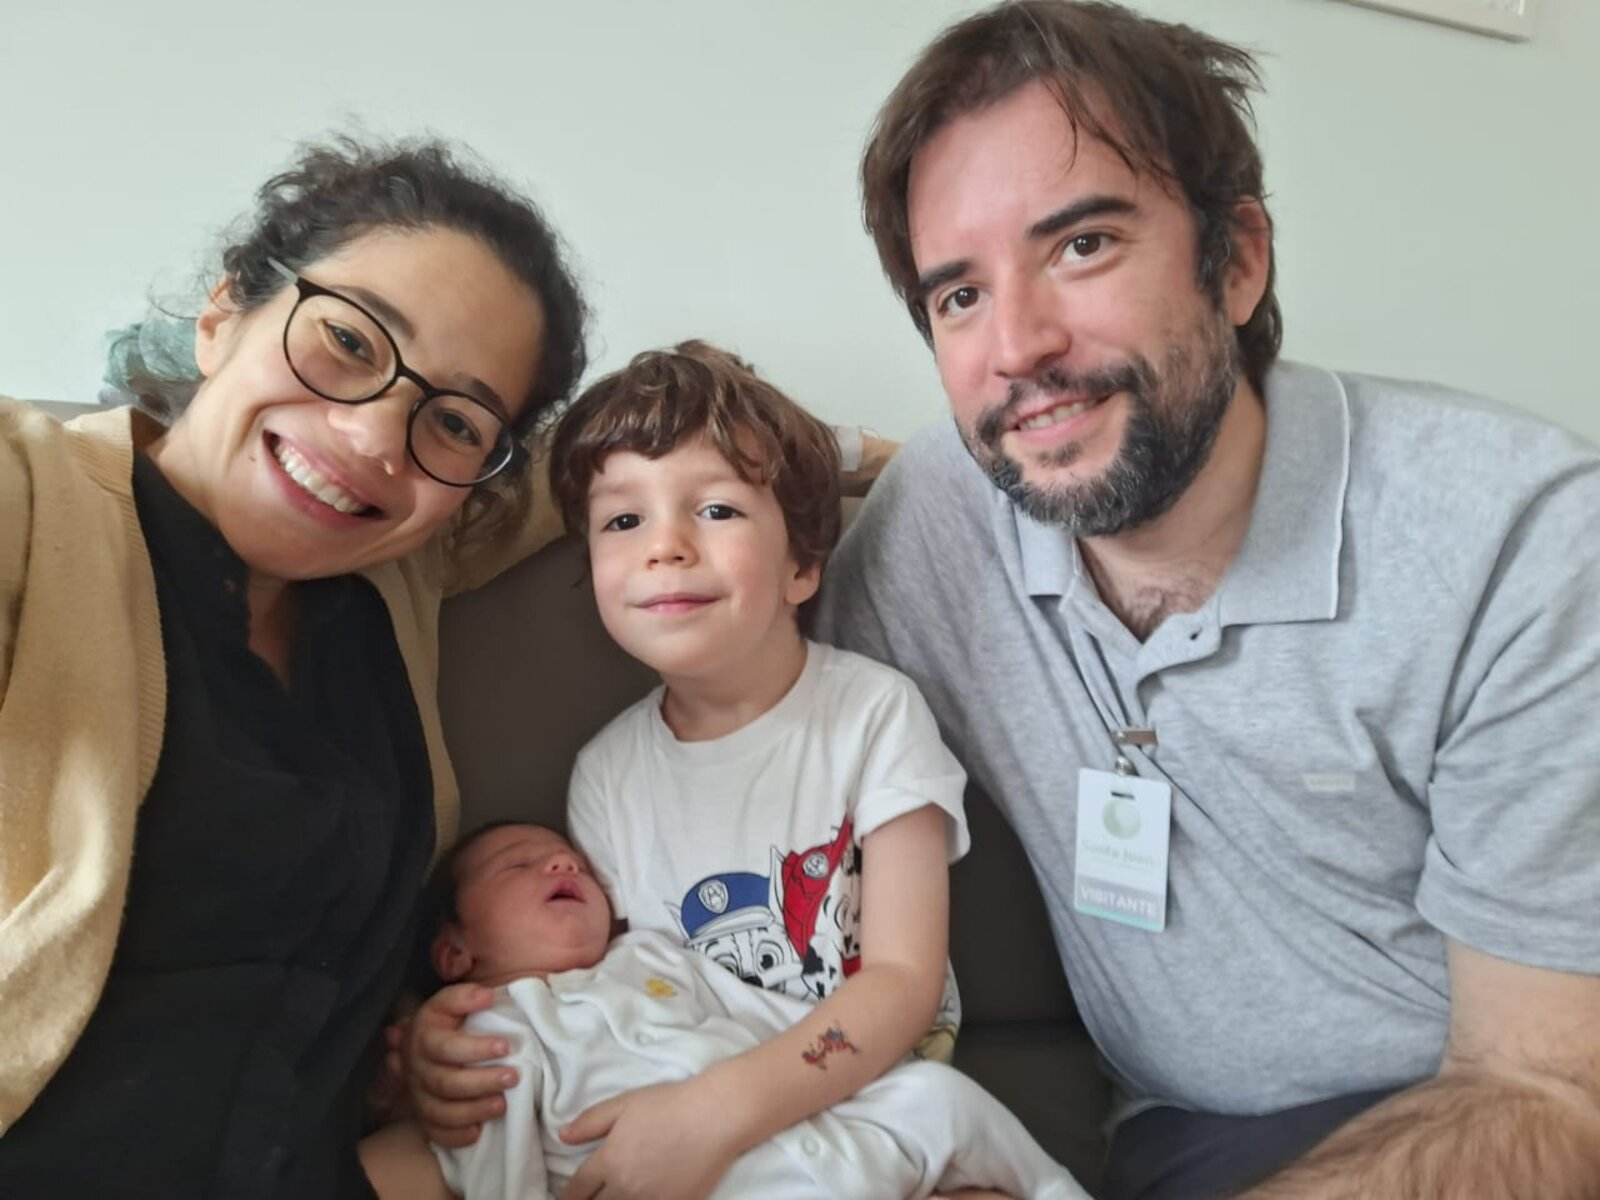
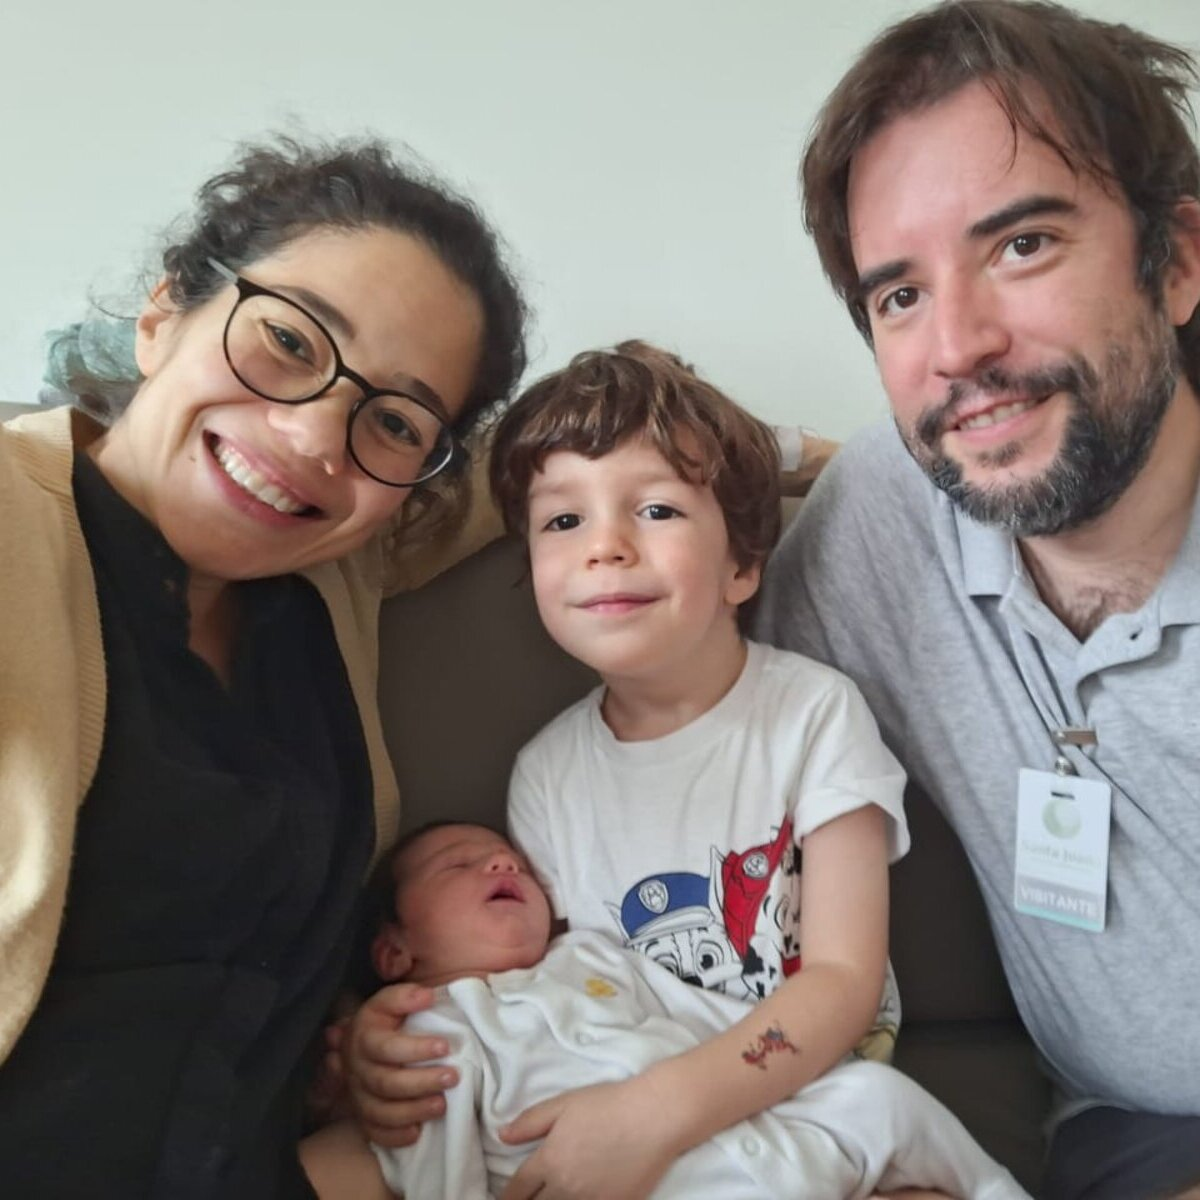
Reframe photos, move name under portrait photo, warm up background
- Re-crop the hero photo tighter on Beatriz's face, out of the mother's
  arm/chest that was showing on the left
- Move the name below the portrait photo instead of above it, and lift
  the photo up to sit right under the header
- Reframe the four-person family photo so the mother isn't cut off
- Shift the page background from a blue periwinkle to a softer, rosier
  lilac

diff --git a/src/screens/PortraitScreen.tsx b/src/screens/PortraitScreen.tsx
@@ -38,19 +38,6 @@ export default function PortraitScreen({ chart }: { chart: Chart }) {
       <PageHeader />
 
       {/* The opening screen of the app, so it introduces her first. */}
-      <Reveal distance={14}>
-        <View style={styles.nameBlock}>
-          <Body size={typography.pageTitle} style={styles.nameLine}>
-            {firstName}
-          </Body>
-          {restName.length > 0 && (
-            <Body size={typography.pageTitle} style={styles.nameLine}>
-              {restName.join(' ')}
-            </Body>
-          )}
-        </View>
-      </Reveal>
-
       <View style={styles.photoWrap}>
         <Pop duration={760}>
           <Breathe periodMs={4600} scale={1.025}>
@@ -79,6 +66,19 @@ export default function PortraitScreen({ chart }: { chart: Chart }) {
           </Parallax>
         </View>
       </View>
+
+      <Reveal distance={14}>
+        <View style={styles.nameBlock}>
+          <Body size={typography.pageTitle} style={styles.nameLine}>
+            {firstName}
+          </Body>
+          {restName.length > 0 && (
+            <Body size={typography.pageTitle} style={styles.nameLine}>
+              {restName.join(' ')}
+            </Body>
+          )}
+        </View>
+      </Reveal>
 
       <Body muted size={14} style={styles.caption}>
         {caption}
@@ -183,7 +183,7 @@ const styles = StyleSheet.create({
   },
   nameBlock: {
     alignItems: 'center',
-    marginTop: spacing(2),
+    marginTop: spacing(2.5),
   },
   nameLine: {
     fontFamily: fonts.light,
@@ -195,7 +195,7 @@ const styles = StyleSheet.create({
   photoWrap: {
     alignItems: 'center',
     justifyContent: 'center',
-    marginTop: spacing(3),
+    marginTop: spacing(1.5),
   },
   photoCircle: {
     backgroundColor: colors.accentSoft,

diff --git a/src/theme/theme.ts b/src/theme/theme.ts
@@ -1,8 +1,9 @@
 import { Element } from '../astro/constants';
 
 /**
- * Palette — a periwinkle wash with the app's own blue as its one loud voice,
- * and a bright cyan reserved for the one real photograph in the app.
+ * Palette — a soft, slightly rosy lilac wash with the app's own blue as its
+ * one loud voice, and a bright cyan reserved for the one real photograph in
+ * the app.
  *
  * Blue is the interface talking: headlines, eyebrows, the divider star's
  * neighbour, every info pill, the active tab. Cyan marks anything meant to
@@ -11,7 +12,7 @@ import { Element } from '../astro/constants';
  * washes and borders. Ink and muted text are both drawn from the same
  * blue-leaning dark, so even body copy belongs to this family.
  */
-const PAPER = '#D5DAFD';
+const PAPER = '#E8D6F0';
 const BLUE = '#1A17C4';
 const INK = '#182042';
 const MUTED = '#626B8F';
